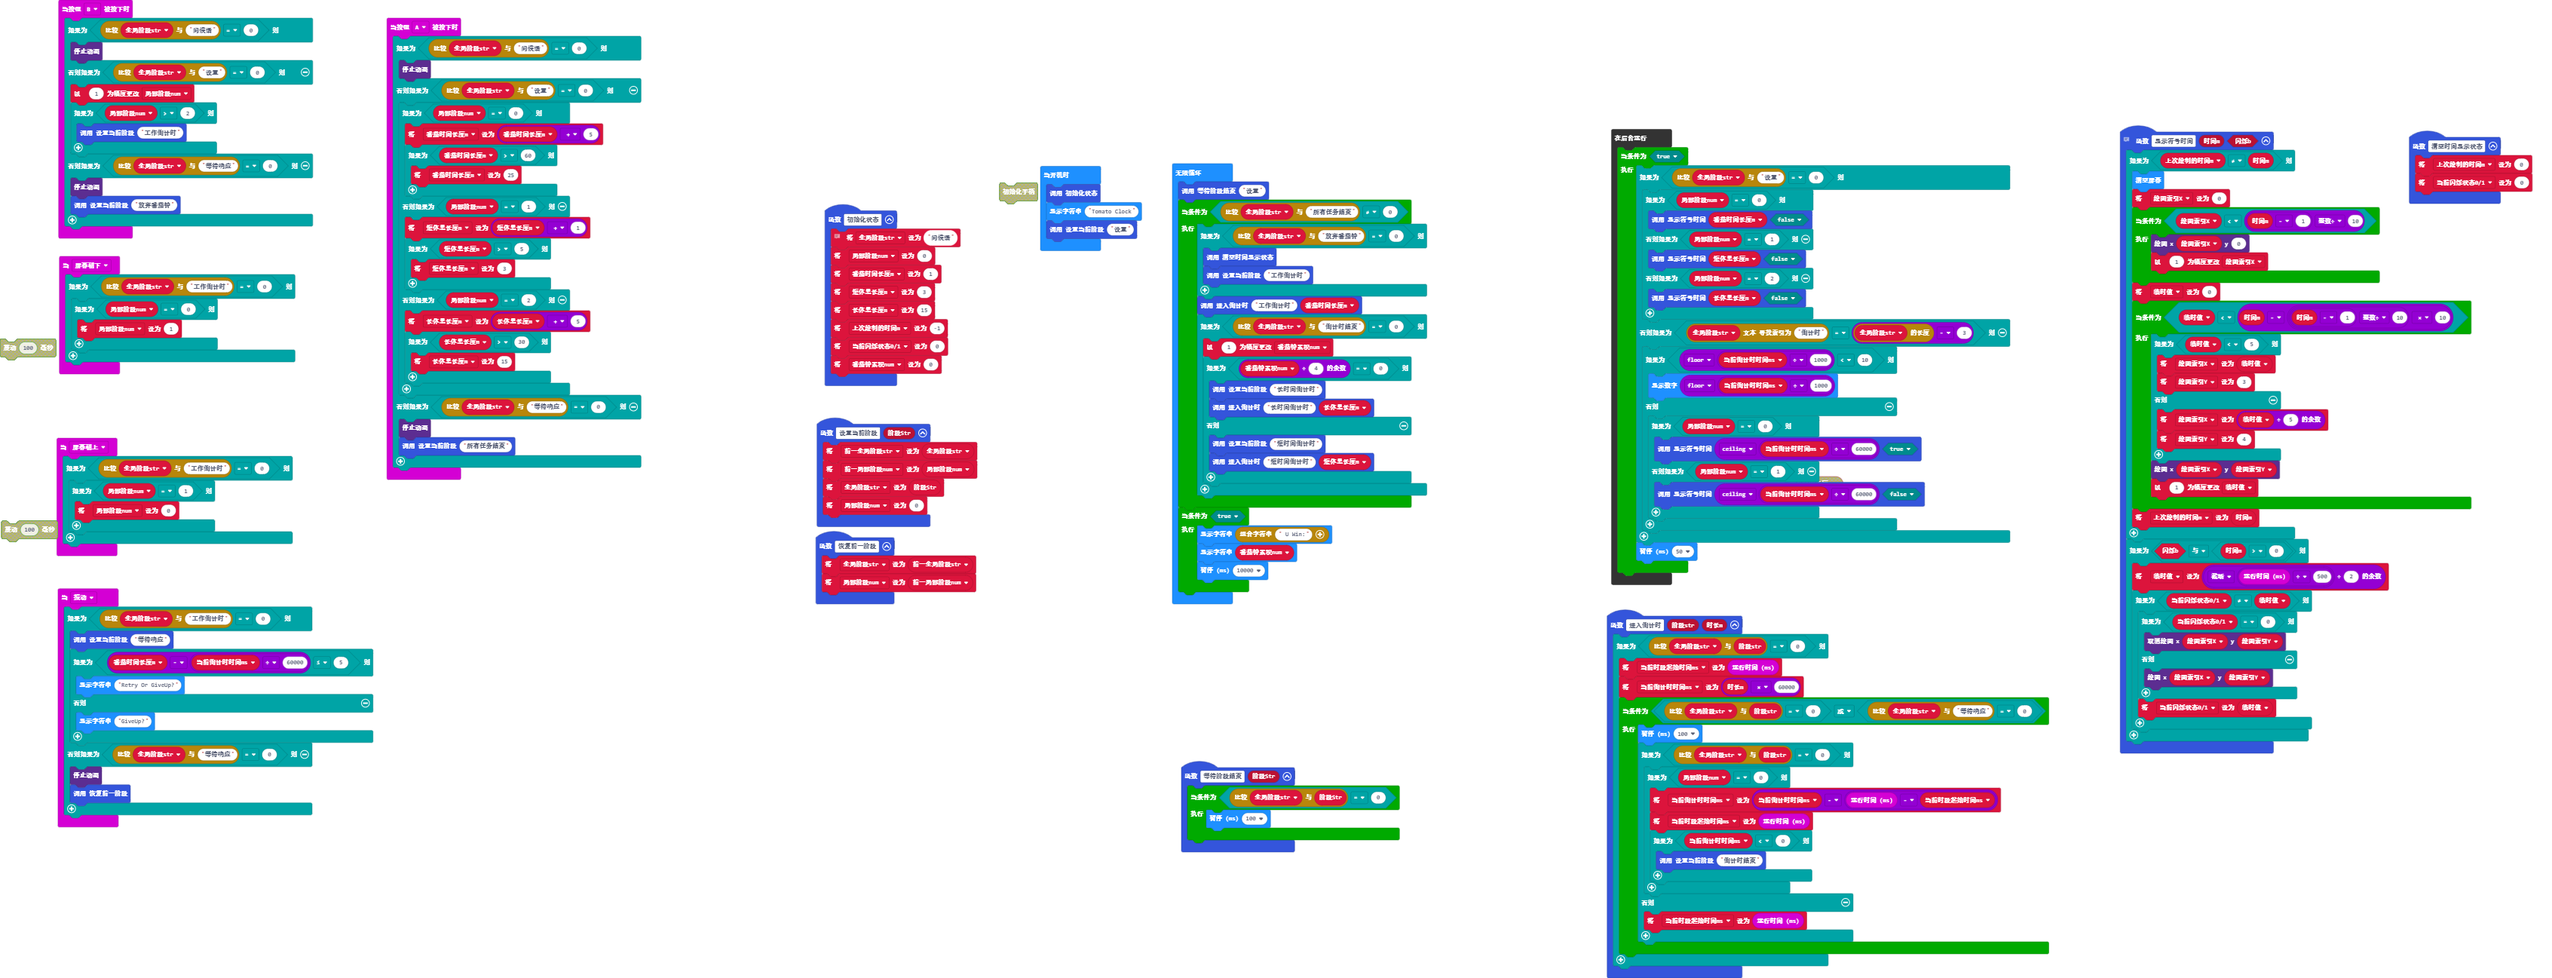
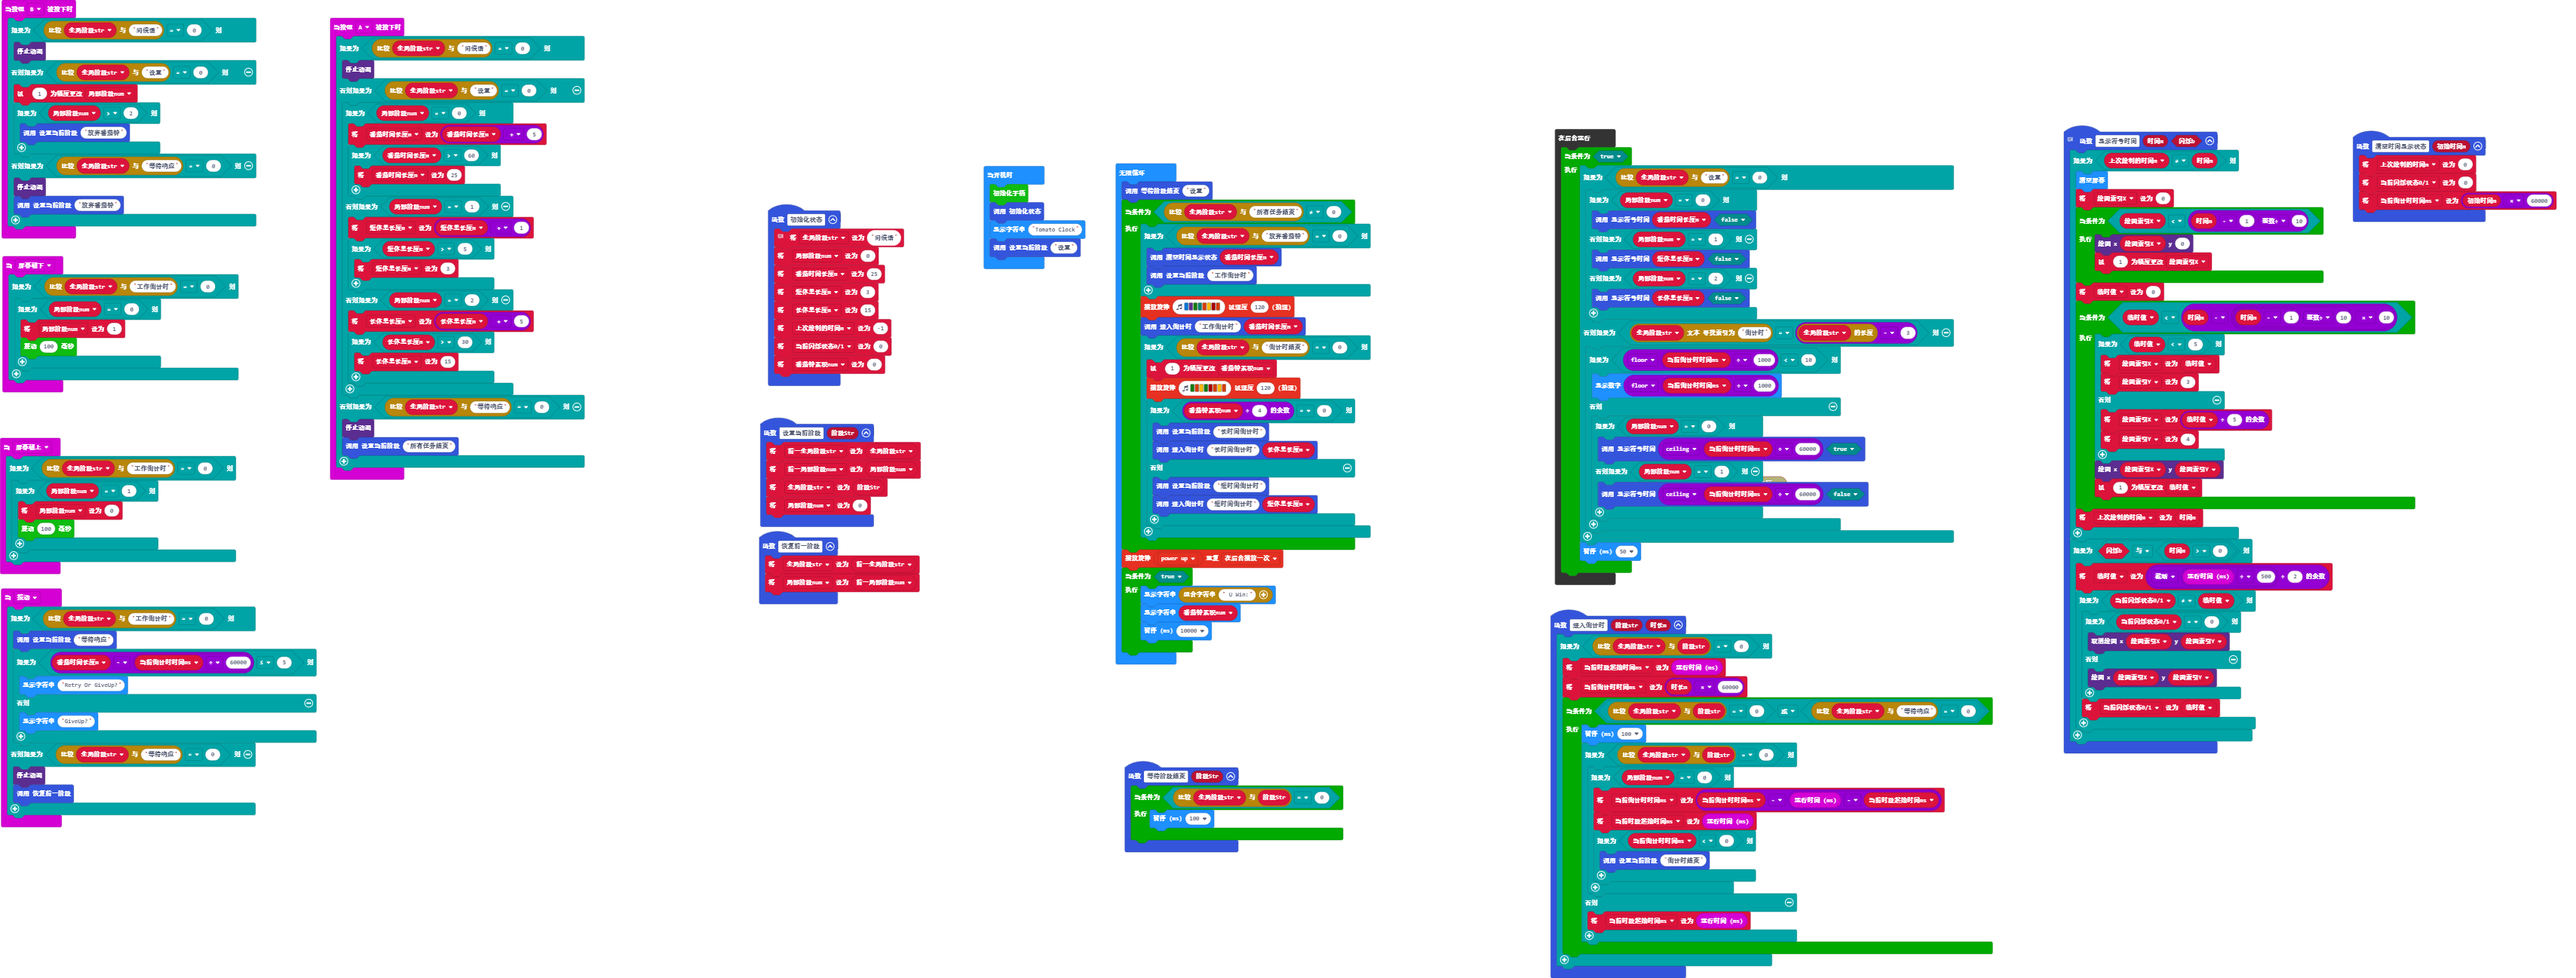
更新 main.blocks, main.ts

diff --git a/main.ts b/main.ts
@@ -2,12 +2,14 @@ input.onGesture(Gesture.ScreenDown, function () {
     if (全局阶段str.compare("工作倒计时") == 0) {
         if (局部阶段num == 0) {
             局部阶段num = 1
+            joystickbit.Vibration_Motor(100)
         }
     }
 })
-function 清空时间显示状态 () {
+function 清空时间显示状态 (初始时间m: number) {
     上次绘制的时间m = 0
     当前闪烁状态01 = 0
+    当前倒计时时间ms = 初始时间m * 60000
 }
 function 等待阶段结束 (阶段Str: string) {
     while (全局阶段str.compare(阶段Str) == 0) {
@@ -127,7 +129,7 @@ input.onButtonPressed(Button.B, function () {
     } else if (全局阶段str.compare("设置") == 0) {
         局部阶段num += 1
         if (局部阶段num > 2) {
-            设置当前阶段("工作倒计时")
+            设置当前阶段("放弃番茄钟")
         }
     } else if (全局阶段str.compare("等待响应") == 0) {
         led.stopAnimation()
@@ -156,7 +158,7 @@ function 初始化状态 () {
     // 注：所有以“倒计时”结尾的阶段，都会进入倒计时状态
     全局阶段str = "问候语"
     局部阶段num = 0
-    番茄时间长度m = 1
+    番茄时间长度m = 25
     短休息长度m = 3
     长休息长度m = 15
     上次绘制的时间m = -1
@@ -167,6 +169,7 @@ input.onGesture(Gesture.ScreenUp, function () {
     if (全局阶段str.compare("工作倒计时") == 0) {
         if (局部阶段num == 1) {
             局部阶段num = 0
+            joystickbit.Vibration_Motor(100)
         }
     }
 })
@@ -174,17 +177,18 @@ let 番茄钟累积num = 0
 let 前一局部阶段num = 0
 let 前一全局阶段str = ""
 let 当前时段起始时间ms = 0
-let 当前倒计时时间ms = 0
 let 长休息长度m = 0
 let 短休息长度m = 0
 let 番茄时间长度m = 0
 let 绘图索引Y = 0
 let 临时值 = 0
 let 绘图索引X = 0
+let 当前倒计时时间ms = 0
 let 当前闪烁状态01 = 0
 let 上次绘制的时间m = 0
 let 局部阶段num = 0
 let 全局阶段str = ""
+joystickbit.initJoystickBit()
 初始化状态()
 basic.showString("Tomato Clock")
 设置当前阶段("设置")
@@ -192,12 +196,14 @@ basic.forever(function () {
     等待阶段结束("设置")
     while (全局阶段str.compare("所有任务结束") != 0) {
         if (全局阶段str.compare("放弃番茄钟") == 0) {
-            清空时间显示状态()
+            清空时间显示状态(番茄时间长度m)
             设置当前阶段("工作倒计时")
         }
+        music.playMelody("E D G F B A C5 B ", 120)
         进入倒计时("工作倒计时", 番茄时间长度m)
         if (全局阶段str.compare("倒计时结束") == 0) {
             番茄钟累积num += 1
+            music.playMelody("G B A G C5 B A B ", 120)
             if (番茄钟累积num % 4 == 0) {
                 设置当前阶段("长时间倒计时")
                 进入倒计时("长时间倒计时", 长休息长度m)
@@ -207,6 +213,7 @@ basic.forever(function () {
             }
         }
     }
+    music.startMelody(music.builtInMelody(Melodies.PowerUp), MelodyOptions.OnceInBackground)
     while (true) {
         basic.showString(" U Win:")
         basic.showString("" + (番茄钟累积num))
